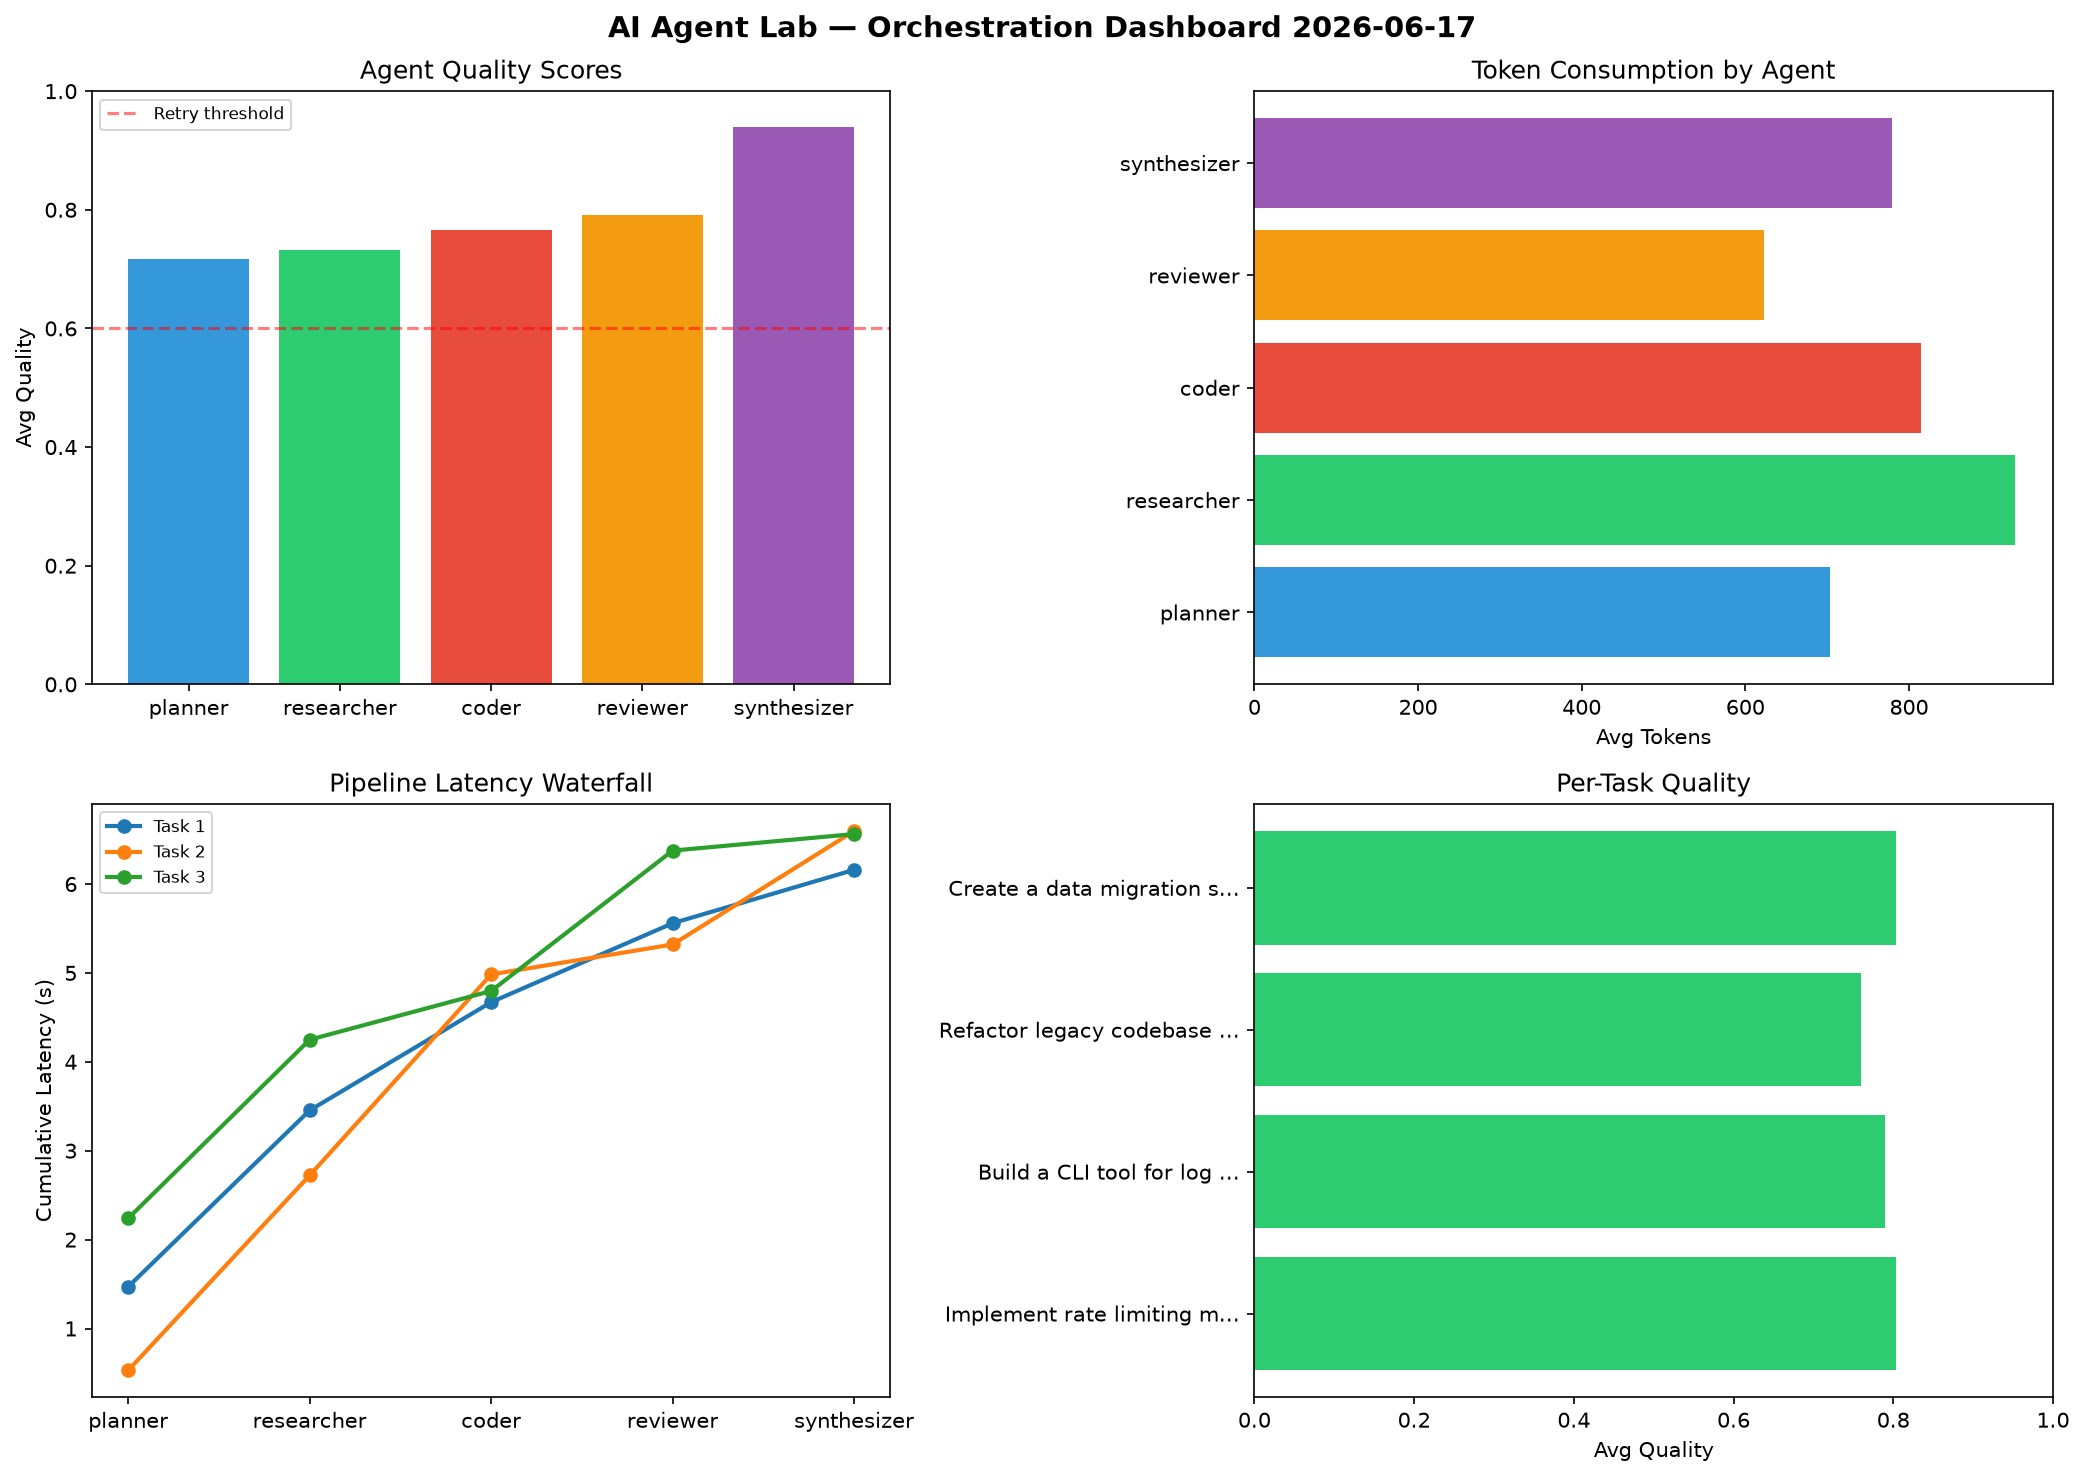
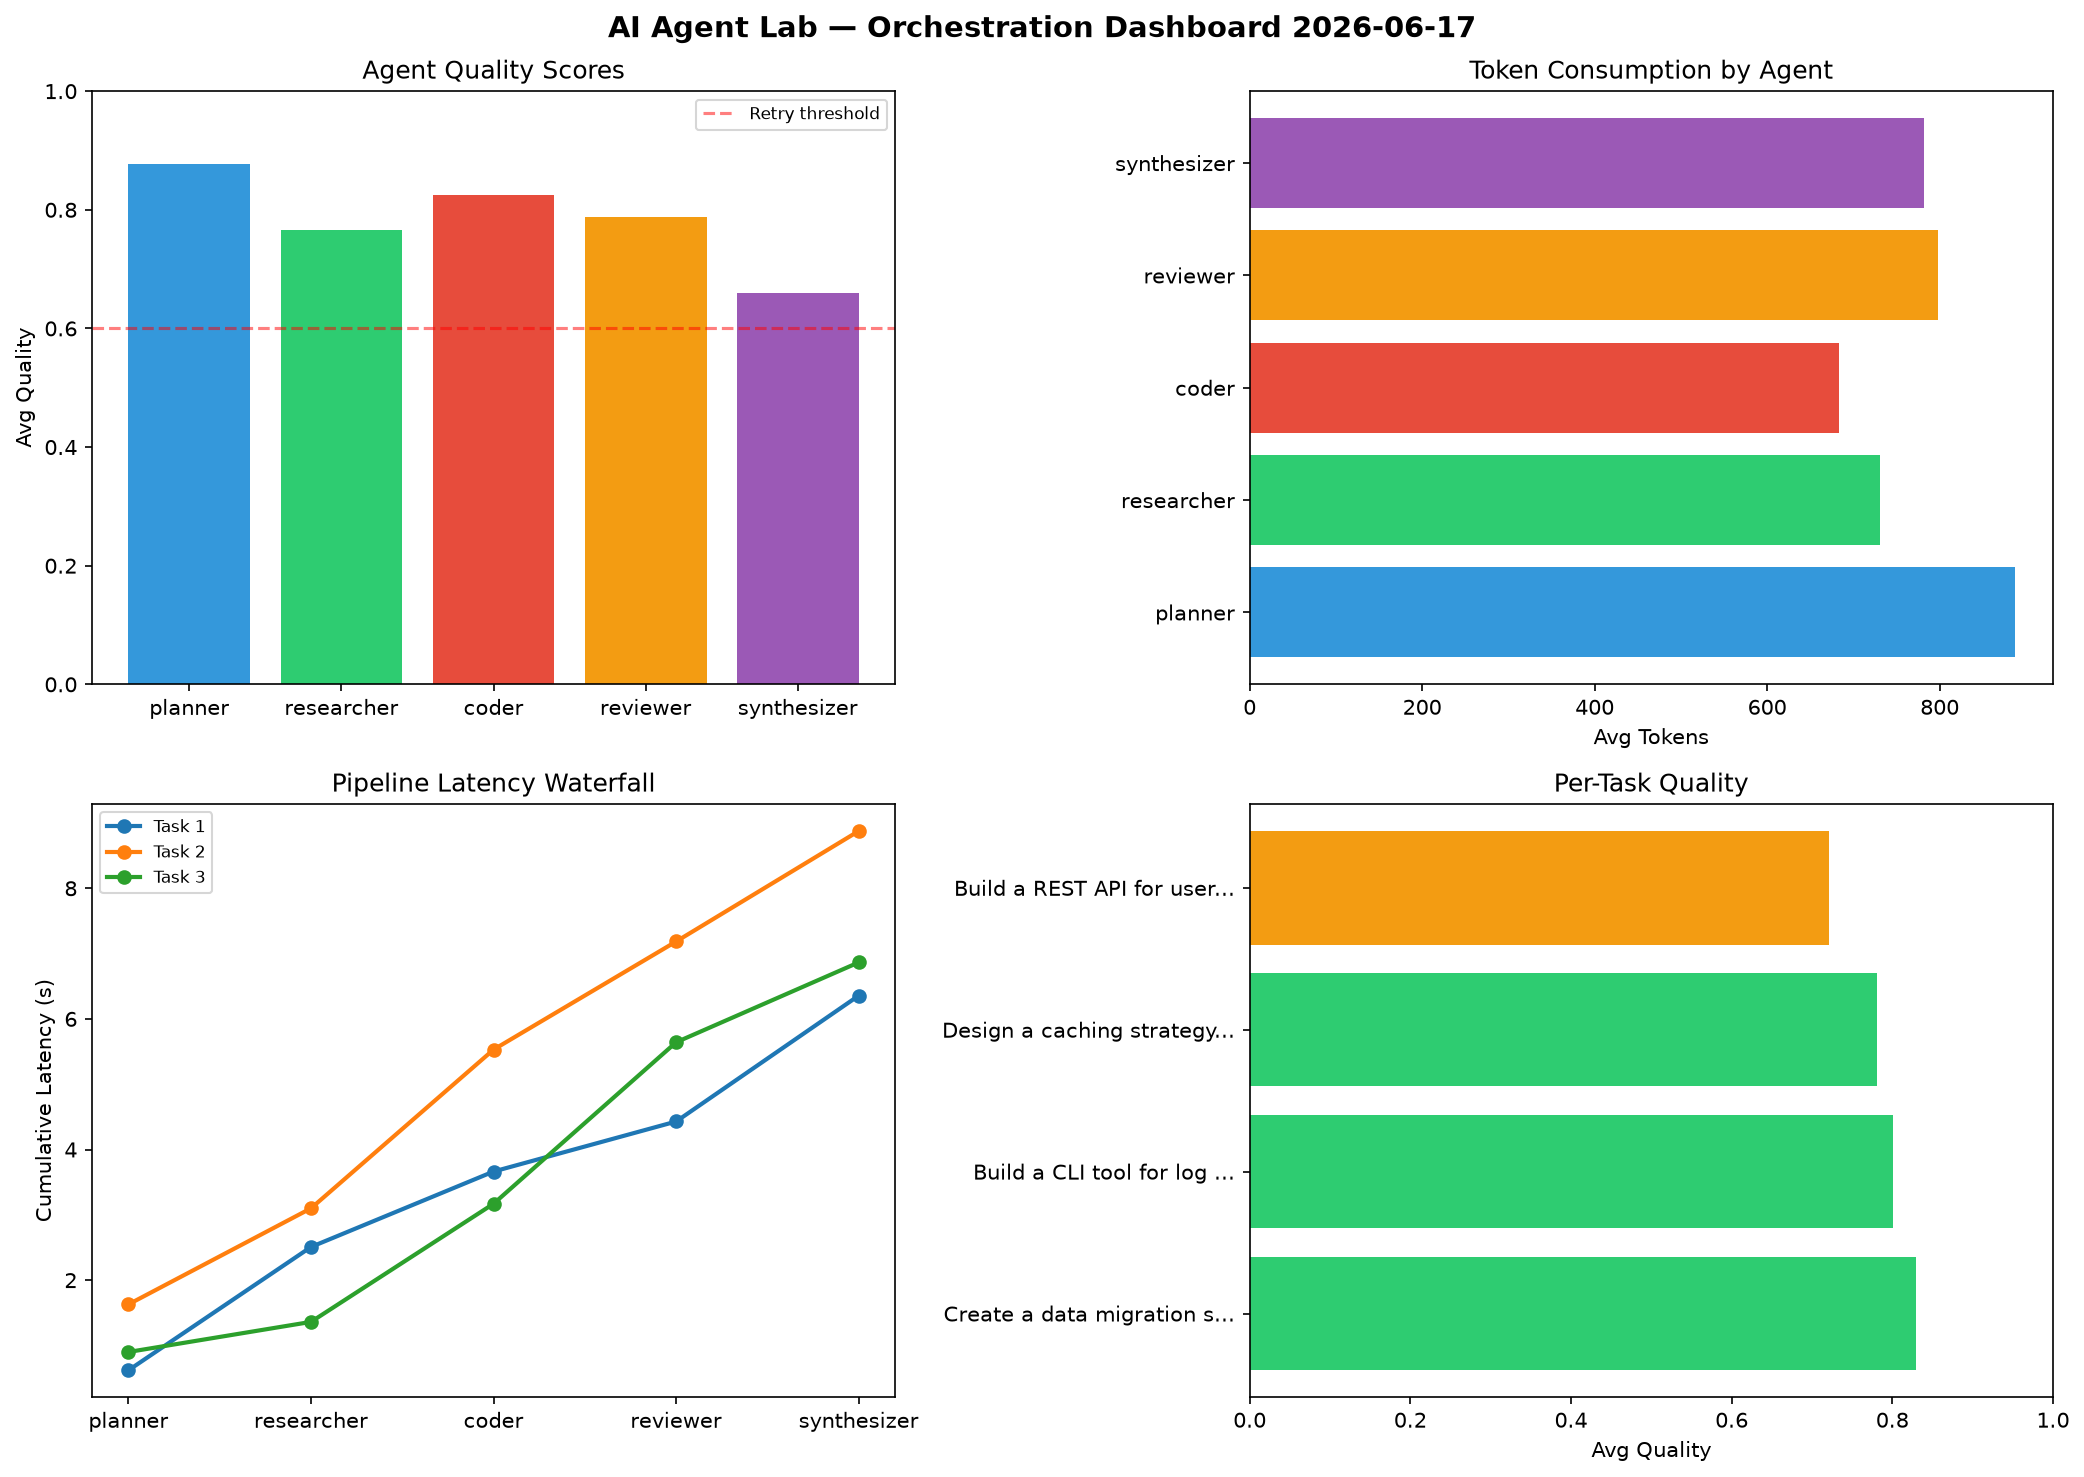
ai-agent-lab: orchestration run 2026-06-17T12:30

diff --git a/logs/2026-06-17.md b/logs/2026-06-17.md
@@ -1,6 +1,6 @@
 # AI Agent Lab — Orchestration Report 2026-06-17
 
-**Run ID:** `c8dbee76bb` | **Tasks:** 4 | **Avg Quality:** 0.789
+**Run ID:** `441b29a26f` | **Tasks:** 4 | **Avg Quality:** 0.783
 
 ![Dashboard](2026-06-17_dashboard.png)
 
@@ -8,52 +8,52 @@
 
 | Metric | Value |
 |--------|-------|
-| avg_latency | 6.055 |
-| total_tokens | 15401 |
-| avg_quality | 0.789 |
+| avg_latency | 7.136 |
+| total_tokens | 15520 |
+| avg_quality | 0.783 |
 
 ## Delta vs Yesterday
 
 | Metric | Today | Yesterday | Change |
 |--------|-------|-----------|--------|
-| avg_latency | 6.055 | 6.25 | 📉 -3.1% |
-| total_tokens | 15401 | 14215 | 📈 8.3% |
-| avg_quality | 0.789 | 0.768 | 📈 2.7% |
+| avg_latency | 7.136 | 6.25 | 📈 14.2% |
+| total_tokens | 15520 | 14215 | 📈 9.2% |
+| avg_quality | 0.783 | 0.768 | 📈 2.0% |
 
 ## Pipeline Results
-
-### Implement rate limiting middleware
-| Agent | Quality | Latency | Tokens | Status |
-|-------|---------|---------|--------|--------|
-| planner | 0.907 | 1.47s | 440 | success |
-| researcher | 0.52 | 1.984s | 768 | needs_retry |
-| coder | 0.896 | 1.217s | 612 | success |
-| reviewer | 0.76 | 0.888s | 928 | success |
-| synthesizer | 0.938 | 0.601s | 613 | success |
-
-### Build a CLI tool for log analysis
-| Agent | Quality | Latency | Tokens | Status |
-|-------|---------|---------|--------|--------|
-| planner | 0.713 | 0.53s | 652 | success |
-| researcher | 0.902 | 2.193s | 1244 | success |
-| coder | 0.601 | 2.26s | 1035 | success |
-| reviewer | 0.792 | 0.337s | 873 | success |
-| synthesizer | 0.936 | 1.276s | 670 | success |
-
-### Refactor legacy codebase to use dependency injection
-| Agent | Quality | Latency | Tokens | Status |
-|-------|---------|---------|--------|--------|
-| planner | 0.679 | 2.239s | 724 | success |
-| researcher | 0.619 | 2.01s | 627 | success |
-| coder | 0.843 | 0.548s | 937 | success |
-| reviewer | 0.745 | 1.579s | 432 | success |
-| synthesizer | 0.911 | 0.186s | 937 | success |
 
 ### Create a data migration script for schema v2
 | Agent | Quality | Latency | Tokens | Status |
 |-------|---------|---------|--------|--------|
-| planner | 0.571 | 1.301s | 999 | needs_retry |
-| researcher | 0.885 | 0.153s | 1079 | success |
-| coder | 0.721 | 1.021s | 674 | success |
-| reviewer | 0.868 | 0.283s | 259 | success |
-| synthesizer | 0.976 | 2.142s | 898 | success |
+| planner | 0.824 | 0.62s | 981 | success |
+| researcher | 0.959 | 1.888s | 951 | success |
+| coder | 0.853 | 1.155s | 376 | success |
+| reviewer | 0.762 | 0.766s | 444 | success |
+| synthesizer | 0.753 | 1.927s | 963 | success |
+
+### Build a CLI tool for log analysis
+| Agent | Quality | Latency | Tokens | Status |
+|-------|---------|---------|--------|--------|
+| planner | 0.961 | 1.629s | 1122 | success |
+| researcher | 0.712 | 1.471s | 505 | success |
+| coder | 0.941 | 2.43s | 514 | success |
+| reviewer | 0.742 | 1.655s | 914 | success |
+| synthesizer | 0.648 | 1.691s | 864 | success |
+
+### Design a caching strategy for high-traffic endpoints
+| Agent | Quality | Latency | Tokens | Status |
+|-------|---------|---------|--------|--------|
+| planner | 0.913 | 0.9s | 1080 | success |
+| researcher | 0.692 | 0.461s | 594 | success |
+| coder | 0.759 | 1.809s | 843 | success |
+| reviewer | 0.823 | 2.472s | 1078 | success |
+| synthesizer | 0.716 | 1.223s | 535 | success |
+
+### Build a REST API for user authentication
+| Agent | Quality | Latency | Tokens | Status |
+|-------|---------|---------|--------|--------|
+| planner | 0.812 | 1.692s | 365 | success |
+| researcher | 0.704 | 0.706s | 874 | success |
+| coder | 0.744 | 1.146s | 999 | success |
+| reviewer | 0.826 | 0.741s | 755 | success |
+| synthesizer | 0.52 | 2.164s | 763 | needs_retry |
